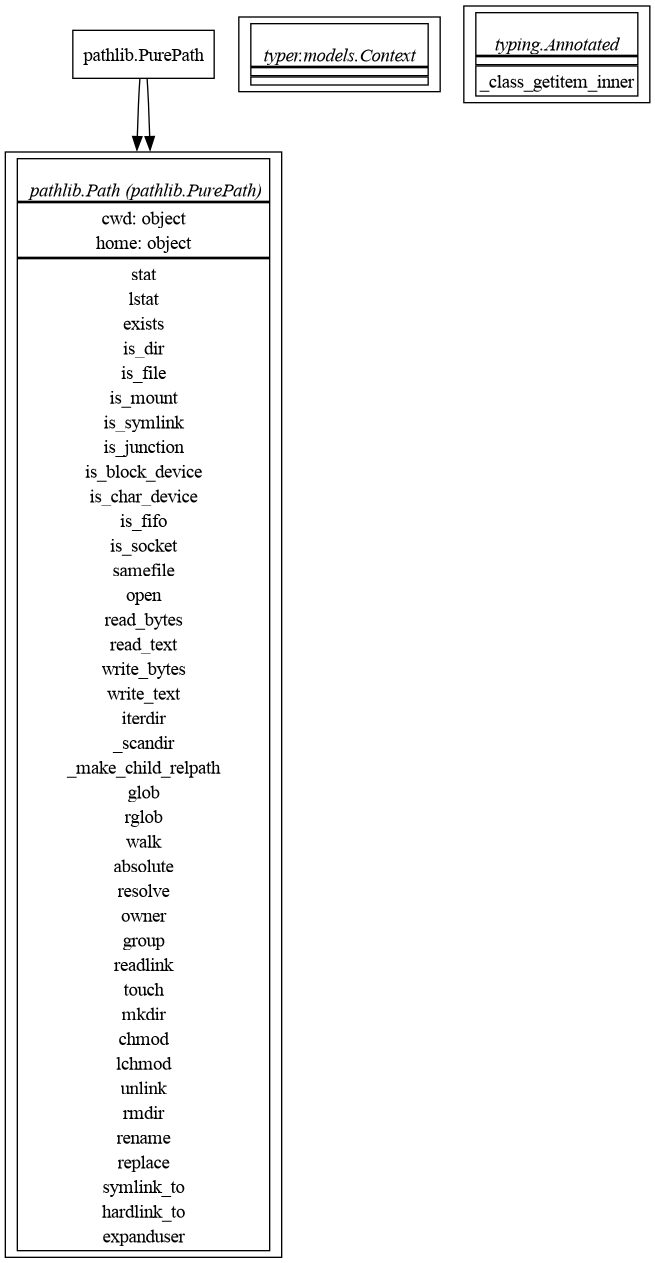
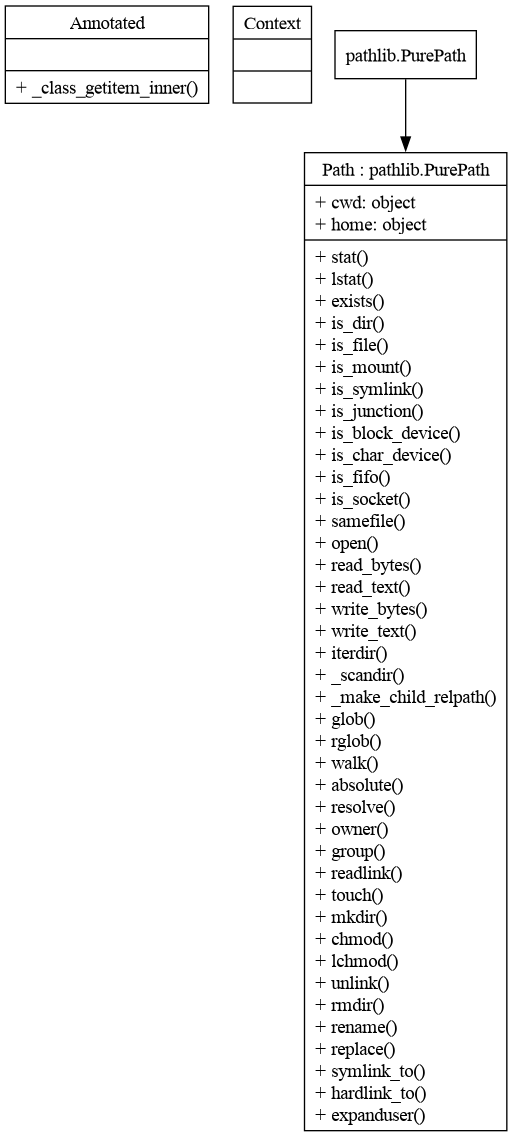
Fix small issues

Changed region(s): [[0.0, 0.0, 1.0, 1.0]]

diff --git a/src/pyuml/class_graph.py b/src/pyuml/class_graph.py
@@ -1,3 +1,4 @@
+import copy
 import dataclasses
 import glob
 import importlib.util
@@ -6,16 +7,53 @@ import os
 import sys
 import types
 
+from functools import cache
 from pathlib import Path
 
 import graphviz as gv
+import typer
 
 
-def _get_fullname(entity):
-    return '{}.{}'.format(entity.__module__, entity.__name__)
+def raise_error(message: str, exit_code: int = 1) -> None:
+    """Raise an error using typer."""
+    red_text = typer.style(message, fg=typer.colors.RED, bold=True)
+    typer.echo(red_text, err=True, color=True)
+    raise typer.Exit(exit_code)
 
 
-def _get_methods(entity) -> list:
+@cache
+def _get_fullname(entity: types.ModuleType) -> str:
+    """
+    Get the fully qualified name of a given entity.
+
+    Parameters
+    ----------
+    entity : types.ModuleType
+        The entity for which the full name is required.
+
+    Returns
+    -------
+    str
+        Fully qualified name of the entity.
+    """
+    return f'{entity.__module__}.{entity.__name__}'
+
+
+@cache
+def _get_methods(entity: types.ModuleType) -> list:
+    """
+    Return a list of methods of a given entity.
+
+    Parameters
+    ----------
+    entity : types.ModuleType
+        The entity whose methods are to be extracted.
+
+    Returns
+    -------
+    list
+        A list of method names.
+    """
     return [
         k
         for k, v in entity.__dict__.items()
@@ -23,6 +61,7 @@ def _get_methods(entity) -> list:
     ]
 
 
+@cache
 def _get_dataclass_structure(klass):
     result = {'fields': {}, 'methods': _get_methods(klass)}
 
@@ -32,6 +71,7 @@ def _get_dataclass_structure(klass):
     return result
 
 
+@cache
 def _get_base_classes(klass):
     return [
         c
@@ -40,17 +80,19 @@ def _get_base_classes(klass):
     ]
 
 
+@cache
 def _get_annotations(klass):
     return getattr(klass, '__annotations__', {})
 
 
+@cache
 def _get_classicclass_structure(klass):
     _methods = _get_methods(klass)
 
     result = {
         'fields': {
             k: _get_annotations(klass).get(k, object).__name__
-            for k in klass.__dict__.keys()
+            for k in list(klass.__dict__.keys())
             if not k.startswith('__') and k not in _methods
         },
         'methods': _methods,
@@ -58,6 +100,7 @@ def _get_classicclass_structure(klass):
     return result
 
 
+@cache
 def _get_class_structure(klass):
     if dataclasses.is_dataclass(klass):
         return _get_dataclass_structure(klass)
@@ -65,65 +108,66 @@ def _get_class_structure(klass):
         return _get_classicclass_structure(klass)
 
 
-def _get_entity_class_html(entity):
-    class_template = """<<TABLE BORDER="0" CELLBORDER="1" CELLSPACING="1" CELLPADDING="1">
-      <TR>
-        <TD>{}</TD>
-      </TR>
-      <TR>
-        <TD>
-          <TABLE BORDER="0" CELLBORDER="0" CELLSPACING="0" CELLPADDING="1">
-          {}
-          </TABLE>
-        </TD>
-      </TR>
-      <TR>
-        <TD>
-          <TABLE BORDER="0" CELLBORDER="0" CELLSPACING="0" CELLPADDING="1">
-          {}
-          </TABLE>
-        </TD>
-      </TR>
-    </TABLE>>"""
+@cache
+def _get_entity_class_uml(entity) -> str:
+    """
+    Generate the UML node representation for a given class entity.
 
-    class_name_template = (
-        '<BR ALIGN="LEFT" />  <I>{}.{} {}</I> <BR ALIGN="LEFT" />'
-    )
-    row_key_value_template = '<TR><TD>{}: {}</TD></TR>'
-    row_key_template = '<TR><TD>{}</TD></TR>'
+    Parameters
+    ----------
+    entity : type
+        The class entity to be represented in UML.
 
-    empty_row = '<TR><TD></TD></TR>'
+    Returns
+    -------
+    str
+        A string representation of the class in UML node format.
+    """
+    # Extract base classes, class structure, and format the class name
     base_classes = ', '.join(
         [_get_fullname(c) for c in _get_base_classes(entity)]
     )
-
-    if base_classes != '':
-        base_classes = '({})'.format(base_classes)
-
     class_structure = _get_class_structure(entity)
+    class_name = f'{entity.__name__}'
 
-    class_name = class_name_template.format(
-        entity.__module__, entity.__qualname__, base_classes
-    )
-    attributes = ''.join(
-        [
-            row_key_value_template.format(k, v)
-            for k, v in class_structure['fields'].items()
-        ]
-    )
+    if base_classes:
+        class_name += f' : {base_classes}'
 
-    methods = ''.join(
-        [row_key_template.format(k) for k in class_structure['methods']]
+    # Formatting fields and methods
+    fields = (
+        '\\l'.join(
+            [f'+ {k}: {v}' for k, v in class_structure['fields'].items()]
+        )
+        + '\\l'
     )
-
-    return class_template.format(
-        class_name,
-        attributes if attributes else empty_row,
-        methods if methods else empty_row,
+    methods = (
+        '\\l'.join([f'+ {m}()' for m in class_structure['methods']]) + '\\l'
     )
 
+    # Combine class name, fields, and methods into the UML node format
+    uml_representation = '{' + f'{class_name}|{fields}|{methods}' + '}'
+    return uml_representation
 
-def _search_modules(target: str, exclude_pattern=['__pycache__']) -> list:
+
+@cache
+def _search_modules(
+    target: str, exclude_pattern: list[str] = ['__pycache__']
+) -> list[str]:
+    """
+    Search for Python modules in a given directory, excluding specified patterns.
+
+    Parameters
+    ----------
+    target : str
+        Target directory to search for modules.
+    exclude_pattern : list, optional
+        Patterns to exclude from the search, by default ['__pycache__'].
+
+    Returns
+    -------
+    list
+        A list of module file paths.
+    """
     results = []
     for f in glob.glob('{}/**/*'.format(target), recursive=True):
         skip = False
@@ -133,43 +177,84 @@ def _search_modules(target: str, exclude_pattern=['__pycache__']) -> list:
                 break
         if not skip and f.endswith('.py'):
             results.append(f)
+
     return results
 
 
+@cache
 def _extract_filename(filename: str) -> str:
     return filename.split(os.sep)[-1].split('.')[0]
 
 
+@cache
+def _extract_module_name(module_path: str) -> tuple[str, str]:
+    """
+    Extract the module name from its file path.
+
+    Parameters
+    ----------
+    module_path : str
+        The file path of the module.
+
+    Returns
+    -------
+    tuple[str, str]
+        Returns the module path and the module name.
+    """
+    # Extract the module name from the path.
+    # This needs to be adapted depending on your project's structure.
+    # Example: 'path/to/module.py' -> 'path.to.module'
+    module_split = module_path.split(os.sep)
+    module_path = os.sep.join(module_split[:-1])
+    module_filename = module_split[-1]
+    module_name = module_filename.rstrip('.py')
+    return module_path, module_name
+
+
+@cache
 def _get_classes_from_module(module_path: str) -> list:
-    spec = importlib.util.spec_from_file_location(
-        _extract_filename(module_path), module_path
-    )
-    module = importlib.util.module_from_spec(spec)
+    """
+    Extract classes from a given module path using importlib.import_module.
 
-    classes_list = []
+    Parameters
+    ----------
+    module_path : str
+        The path to the module from which classes are to be extracted.
 
+    Returns
+    -------
+    list
+        A list of class objects.
+    """
+    module_path, module_name = _extract_module_name(module_path)
+    original_path = copy.deepcopy(sys.path)
     try:
-        spec.loader.exec_module(module)  # type: ignore
-        for o in module.__dir__():
-            if o.startswith('__'):
-                continue
-            klass = getattr(module, o)
-            if inspect.isclass(klass):
-                classes_list.append(klass)
+        sys.path.insert(0, module_path)
+        module = importlib.import_module(module_name)
+        sys.path = original_path
+        classes_list = [
+            getattr(module, o)
+            for o in dir(module)
+            if inspect.isclass(getattr(module, o)) and not o.startswith('__')
+        ]
+        return classes_list
+    except KeyboardInterrupt:
+        raise_error('KeyboardInterrupt', 1)
     except Exception as e:
-        print(' {} '.format(module_path).center(80, '='))
+        print(f' Error loading module {module_name} '.center(80, '='))
         print(e)
         print('.' * 80)
+        return []
     return classes_list
 
 
 def create_class_diagram(classes_list: list, verbose: bool = False):
     g = gv.Digraph(comment='Graph')
-    g.attr('node', shape='none', rankdir='BT')
+    g.attr('node', shape='record', rankdir='BT')
 
     edges = []
     for c in classes_list:
-        g.node(_get_fullname(c), _get_entity_class_html(c))
+        g.node(_get_fullname(c), _get_entity_class_uml(c))
 
         for b in _get_base_classes(c):
             edges.append((_get_fullname(b), _get_fullname(c)))
@@ -177,20 +262,46 @@ def create_class_diagram(classes_list: list, verbose: bool = False):
         if verbose:
             print('[II]', _get_fullname(c), '- included.')
 
-    g.edges(edges)
+    g.edges(set(edges))
     return g
 
 
-def create_class_diagram_from_source(source: Path, verbose: bool = False):
+def create_class_diagram_from_source(
+    source: Path, verbose: bool = False
+) -> gv.Digraph:
+    """
+    Create a class diagram from the source code located at the specified path.
+
+    Parameters
+    ----------
+    source : Path
+        The path to the source code.
+    verbose : bool, optional
+        Flag to enable verbose logging, by default False.
+
+    Returns
+    -------
+    gv.Digraph
+        Graphviz Digraph object representing the class diagram.
+
+    Raises
+    ------
+    FileNotFoundError
+        If the provided path does not exist.
+    ValueError
+        If the provided path is not a directory.
+    """
     classes_list = []
 
     path_str = str(source)
 
     if not os.path.exists(path_str):
-        raise Exception(f'Path "{path_str}" doesn\'t  exist.')
+        raise_error(f'Path "{path_str}" doesn\'t  exist.', 1)
     if os.path.isdir(path_str):
         sys.path.insert(0, path_str)
 
         for f in _search_modules(path_str):
             classes_list.extend(_get_classes_from_module(f))
+    else:
+        classes_list.extend(_get_classes_from_module(path_str))
     return create_class_diagram(classes_list, verbose=verbose)
